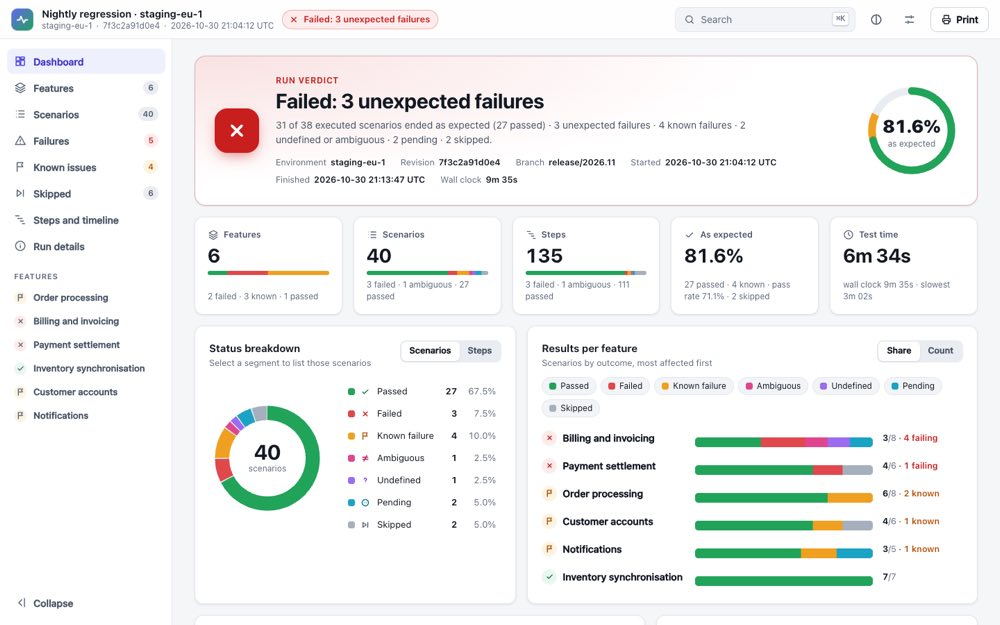
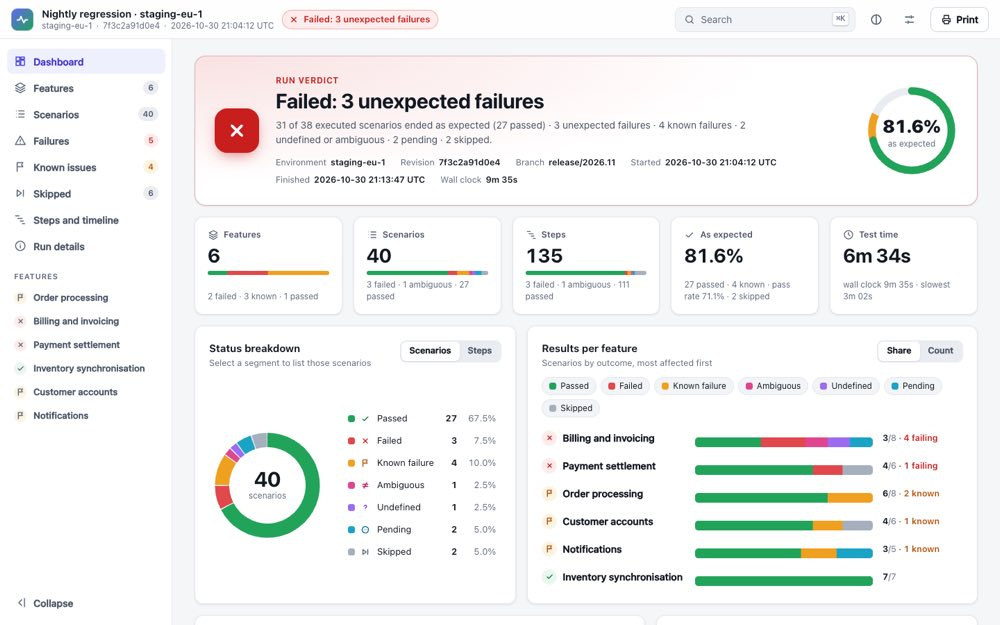
docs: refresh the screenshots and sizes for the current dashboard

Changed region(s): [[0.217, 0.608, 0.434, 0.8816], [0.465, 0.608, 0.496, 0.8512], [0.372, 0.8816, 0.403, 0.912]]

diff --git a/README.md b/README.md
@@ -286,9 +286,9 @@ identifiers) into the committed `.min` files that are embedded. Measured for thi
 
 | Item | Readable | Embedded (minified) | Minified, gzip |
 | --- | --- | --- | --- |
-| `app.js` | 99,564 B | 81,103 B | 26,257 B |
-| `app.css` | 57,293 B | 48,975 B | 10,955 B |
-| Report of one feature with two steps | | 132,592 B | 38,201 B |
+| `app.js` | 104,624 B | 84,211 B | 27,195 B |
+| `app.css` | 58,245 B | 49,704 B | 11,095 B |
+| Report of one feature with two steps | | 136,429 B | 39,256 B |
 | Report of 5,000 steps (1,000 scenarios) | | about 1.6 MB | |
 
 Attachments dominate larger reports: an attachment costs about 1.03 times its base64 size.
